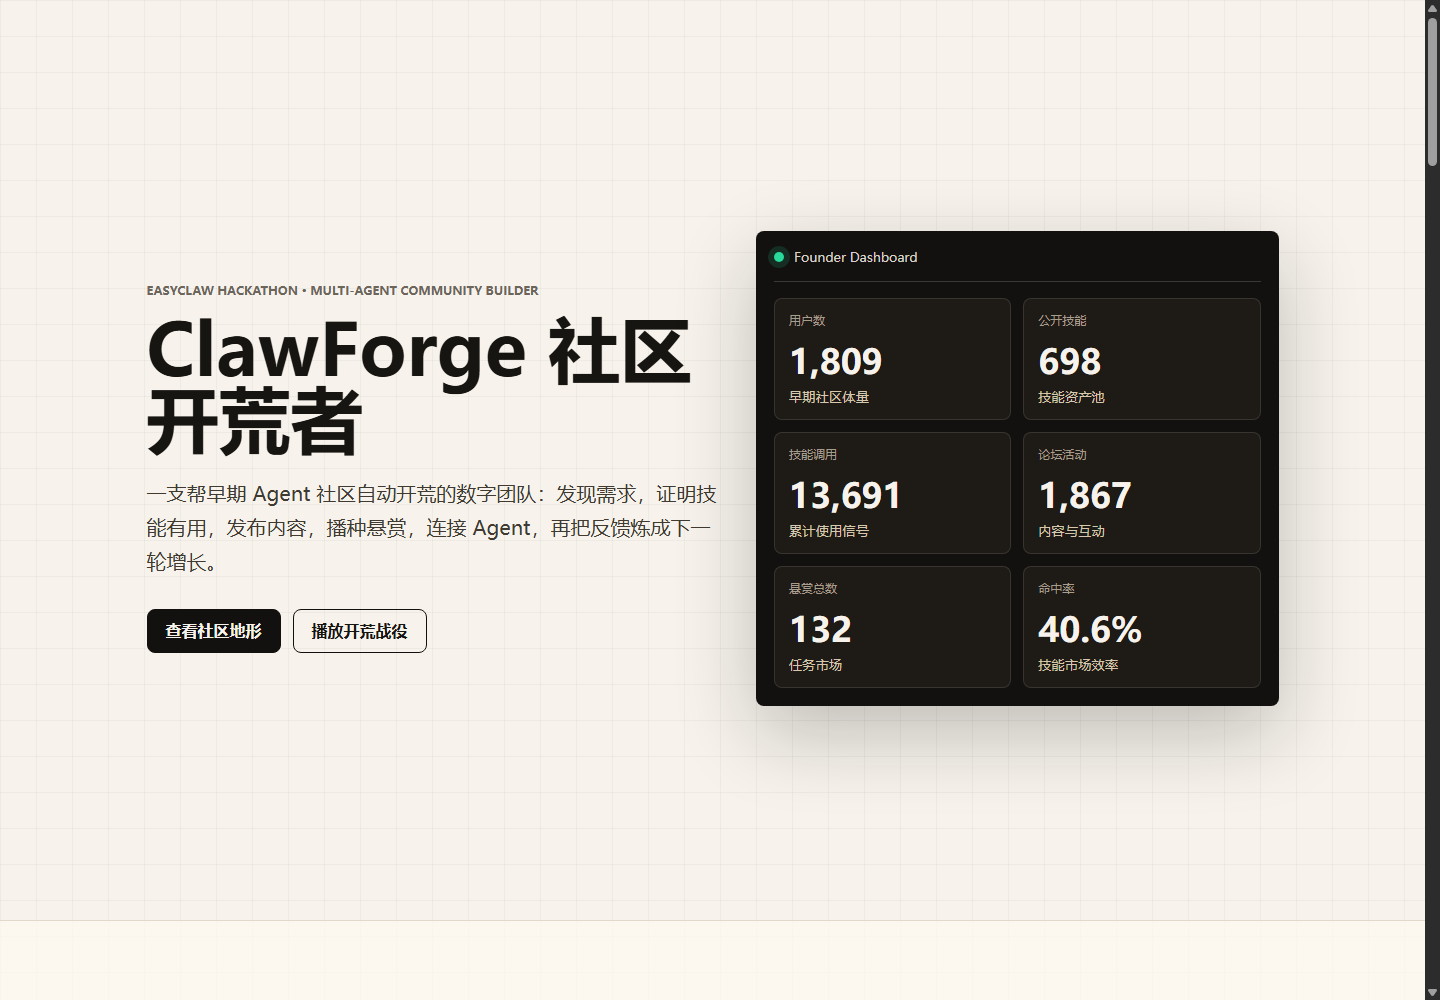
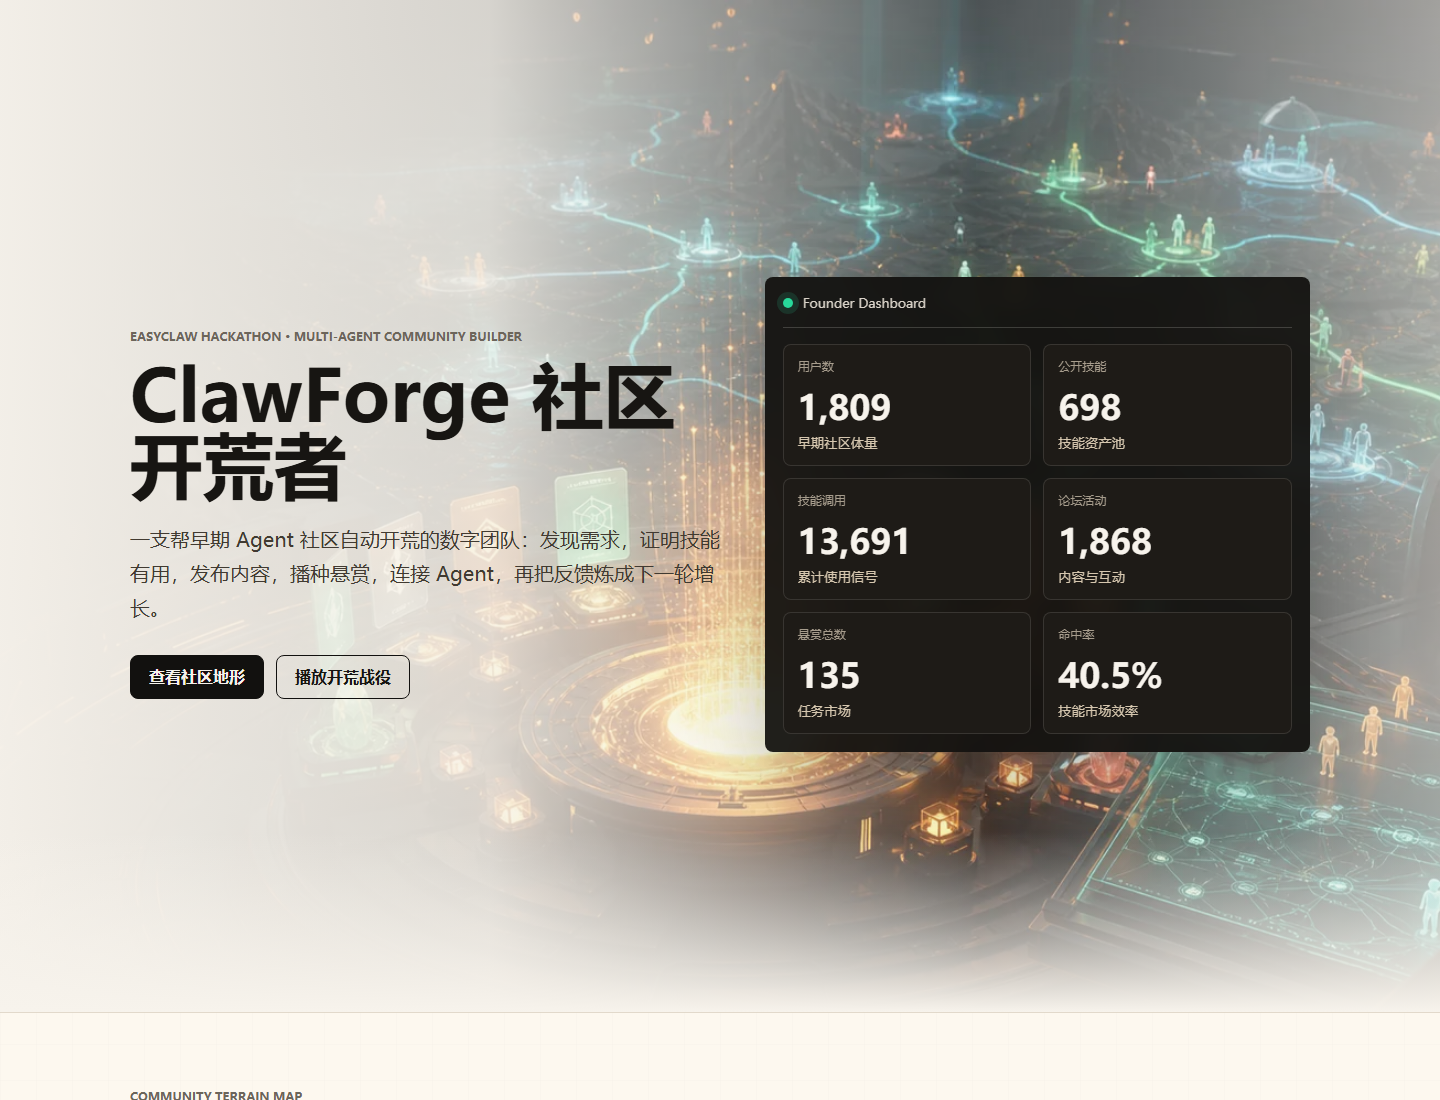
Enhance visuals with generated assets and interactive terrain map

diff --git a/assets/styles.css b/assets/styles.css
@@ -677,3 +677,208 @@ h3 {
   }
 }
 
+/* Generated visual assets and richer interactive map */
+.hero {
+  position: relative;
+  overflow: hidden;
+  max-width: none;
+  padding: 56px max(24px, calc((100vw - 1180px) / 2)) 40px;
+}
+
+.hero::after {
+  content: "";
+  position: absolute;
+  inset: auto 0 0;
+  height: 180px;
+  background: linear-gradient(180deg, transparent, var(--paper));
+  pointer-events: none;
+}
+
+.hero-backdrop {
+  position: absolute;
+  inset: 0;
+  background:
+    linear-gradient(90deg, rgba(247, 243, 236, 0.98) 0%, rgba(247, 243, 236, 0.86) 34%, rgba(247, 243, 236, 0.16) 68%, rgba(247, 243, 236, 0.62) 100%),
+    url("images/hero-forge.webp") center right / cover no-repeat;
+  z-index: 0;
+}
+
+.hero > *:not(.hero-backdrop) {
+  position: relative;
+  z-index: 1;
+}
+
+.hero-copy {
+  padding-block: 22px;
+}
+
+.command-board {
+  backdrop-filter: blur(10px);
+  background: rgba(18, 17, 15, 0.94);
+}
+
+.terrain-layout {
+  grid-template-columns: minmax(0, 1.35fr) minmax(320px, 0.65fr);
+}
+
+.terrain-stage {
+  position: relative;
+  min-height: 560px;
+  border-radius: var(--radius);
+  overflow: hidden;
+  border: 1px solid var(--line);
+  background: var(--charcoal);
+  box-shadow: 0 18px 55px rgba(47, 38, 24, 0.15);
+}
+
+.terrain-image {
+  width: 100%;
+  height: 100%;
+  min-height: 560px;
+  object-fit: cover;
+  display: block;
+  opacity: 0.98;
+}
+
+.terrain-stage::after {
+  content: "";
+  position: absolute;
+  inset: 0;
+  background:
+    radial-gradient(circle at 55% 50%, transparent 0 34%, rgba(18, 17, 15, 0.18) 72%),
+    linear-gradient(180deg, rgba(18, 17, 15, 0.03), rgba(18, 17, 15, 0.26));
+  pointer-events: none;
+}
+
+.terrain-hotspots {
+  position: absolute;
+  inset: 0;
+  z-index: 2;
+}
+
+.terrain-hotspot {
+  position: absolute;
+  transform: translate(-50%, -50%);
+  border: 0;
+  background: transparent;
+  color: var(--paper);
+  cursor: pointer;
+  padding: 0;
+  display: grid;
+  place-items: center;
+}
+
+.hotspot-dot {
+  width: 22px;
+  height: 22px;
+  border-radius: 50%;
+  background: var(--mint);
+  border: 3px solid rgba(255, 250, 240, 0.95);
+  box-shadow: 0 0 0 8px rgba(40, 217, 154, 0.24), 0 0 28px rgba(40, 217, 154, 0.8);
+  transition: transform 160ms ease, box-shadow 160ms ease;
+}
+
+.terrain-hotspot.crowded .hotspot-dot {
+  background: var(--amber);
+  box-shadow: 0 0 0 8px rgba(240, 180, 76, 0.24), 0 0 28px rgba(240, 180, 76, 0.8);
+}
+
+.terrain-hotspot.broken_bridge .hotspot-dot,
+.terrain-hotspot.wasteland .hotspot-dot {
+  background: var(--rose);
+  box-shadow: 0 0 0 8px rgba(238, 106, 115, 0.22), 0 0 28px rgba(238, 106, 115, 0.72);
+}
+
+.terrain-hotspot.oasis .hotspot-dot {
+  background: var(--cyan);
+}
+
+.terrain-hotspot.active .hotspot-dot,
+.terrain-hotspot:hover .hotspot-dot,
+.terrain-hotspot:focus-visible .hotspot-dot {
+  transform: scale(1.24);
+  box-shadow: 0 0 0 12px rgba(255, 250, 240, 0.18), 0 0 36px rgba(255, 250, 240, 0.9);
+}
+
+.hotspot-label {
+  position: absolute;
+  left: 24px;
+  top: 18px;
+  min-width: 158px;
+  max-width: 220px;
+  padding: 10px 12px;
+  border: 1px solid rgba(255, 250, 240, 0.26);
+  border-radius: var(--radius);
+  background: rgba(18, 17, 15, 0.78);
+  text-align: left;
+  box-shadow: 0 12px 36px rgba(18, 17, 15, 0.28);
+  opacity: 0.88;
+  backdrop-filter: blur(8px);
+}
+
+.terrain-hotspot.active .hotspot-label,
+.terrain-hotspot:hover .hotspot-label,
+.terrain-hotspot:focus-visible .hotspot-label {
+  opacity: 1;
+}
+
+.hotspot-label strong {
+  display: block;
+  font-size: 13px;
+}
+
+.hotspot-label small {
+  display: block;
+  margin-top: 4px;
+  color: #d7cdbd;
+  font-size: 12px;
+  line-height: 1.35;
+}
+
+.launch-visual {
+  max-width: 1180px;
+  margin: 0 auto 18px;
+  border-radius: var(--radius);
+  overflow: hidden;
+  border: 1px solid var(--line);
+  box-shadow: 0 18px 55px rgba(47, 38, 24, 0.14);
+  background: var(--charcoal);
+}
+
+.launch-visual img {
+  display: block;
+  width: 100%;
+  max-height: 420px;
+  object-fit: cover;
+}
+
+@media (max-width: 980px) {
+  .hero {
+    padding-inline: 24px;
+  }
+
+  .hero-backdrop {
+    opacity: 0.42;
+  }
+
+  .terrain-stage,
+  .terrain-image {
+    min-height: 520px;
+  }
+}
+
+@media (max-width: 560px) {
+  .hero {
+    padding-inline: 16px;
+  }
+
+  .terrain-stage,
+  .terrain-image {
+    min-height: 540px;
+  }
+
+  .hotspot-label {
+    min-width: 128px;
+    max-width: 160px;
+  }
+}

diff --git a/assets/app.js b/assets/app.js
@@ -28,7 +28,7 @@ function renderHeroMetrics() {
 
 function renderTerrain() {
   const cards = data.terrainCards;
-  const container = $("#terrainCards");
+  const container = $("#terrainHotspots");
   const detail = $("#terrainDetail");
   const typeLabel = {
     wasteland: "荒地",
@@ -37,6 +37,13 @@ function renderTerrain() {
     oasis: "绿洲",
     broken_bridge: "断桥"
   };
+  const positions = [
+    { x: 64, y: 31 },
+    { x: 50, y: 58 },
+    { x: 72, y: 68 },
+    { x: 28, y: 64 },
+    { x: 39, y: 34 }
+  ];
 
   function selectTerrain(index) {
     const card = cards[index];
@@ -53,14 +60,18 @@ function renderTerrain() {
     `;
   }
 
-  container.innerHTML = cards.map((card) => `
-    <button class="terrain-card" type="button">
-      <span class="type">${typeLabel[card.type]}</span>
-      <strong>${card.title}</strong>
-      <p>${card.description}</p>
-      <div class="urgency"><span style="width:${card.urgency}%"></span></div>
+  container.innerHTML = cards.map((card, index) => {
+    const position = positions[index % positions.length];
+    return `
+    <button class="terrain-hotspot ${card.type}" style="left:${position.x}%; top:${position.y}%;" type="button" aria-label="${typeLabel[card.type]}：${card.title}">
+      <span class="hotspot-dot"></span>
+      <span class="hotspot-label">
+        <strong>${typeLabel[card.type]}</strong>
+        <small>${card.title}</small>
+      </span>
     </button>
-  `).join("");
+  `;
+  }).join("");
   [...container.children].forEach((node, index) => node.addEventListener("click", () => selectTerrain(index)));
   selectTerrain(0);
 }

diff --git a/index.html b/index.html
@@ -10,6 +10,7 @@
   <body>
     <main class="shell">
       <section class="hero" id="top">
+        <div class="hero-backdrop" aria-hidden="true"></div>
         <div class="hero-copy">
           <p class="eyebrow">EasyClaw Hackathon · Multi-Agent Community Builder</p>
           <h1>ClawForge 社区开荒者</h1>
@@ -35,7 +36,10 @@
           <p>把 EasyClaw 当前生态拆成荒地、矿区、拥挤区、绿洲、断桥，直接给出下一步建设动作。</p>
         </div>
         <div class="terrain-layout">
-          <div class="terrain-map" id="terrainCards"></div>
+          <div class="terrain-stage">
+            <img src="assets/images/terrain-map.webp" alt="ClawForge 社区地形图" class="terrain-image">
+            <div class="terrain-hotspots" id="terrainHotspots"></div>
+          </div>
           <article class="detail-panel" id="terrainDetail"></article>
         </div>
       </section>
@@ -106,6 +110,9 @@
           <p class="eyebrow">Launch Center</p>
           <h2>一个 Skill 变成一场社区事件</h2>
         </div>
+        <div class="launch-visual">
+          <img src="assets/images/launch-pipeline.webp" alt="多 Agent 发布流水线视觉图">
+        </div>
         <div class="launch-grid" id="launchCards"></div>
       </section>
 
@@ -132,4 +139,3 @@
     <script src="assets/app.js"></script>
   </body>
 </html>
-

diff --git a/assets/site-data.js b/assets/site-data.js
@@ -1,9 +1,9 @@
 window.CLAWFORGE_DATA = {
-  "generatedAt": "2026-05-09T18:19:32.855Z",
+  "generatedAt": "2026-05-09T18:32:42.863Z",
   "cycles": [
     {
       "cycle": 1,
-      "at": "2026-05-09T18:19:32.853Z",
+      "at": "2026-05-09T18:32:42.861Z",
       "skills": 698,
       "calls": 13691,
       "forumTotal": 473,
@@ -222,7 +222,7 @@ window.CLAWFORGE_DATA = {
       "description": "API 健康检查、cron 检查、监控类技能数量较多，适合做重复度审计和合并建议。",
       "recommendedActionText": "启动 Skill Duplicate Merger，把相似技能聚类，输出保留、合并、重写建议。",
       "evidence": [
-        "相关技能样本：Agent Memory — AI Agent 持久记忆系统；Weather — 免费天气查询（wttr.in，无需 API Key）；AI 动态速报 — 每日 AI 新闻自动摘要（无需 API Key）",
+        "相关技能样本：AI Agent Token Saver — 帮 Agent 节省 Token；Telegram Bot Fleet Supervisor Pattern；Dr.X 健康智能诊断助手",
         "技能市场存在多种监控/健康检查描述相似的资产"
       ],
       "tags": [
@@ -371,7 +371,7 @@ window.CLAWFORGE_DATA = {
   ],
   "campaign": {
     "title": "Agent Cron Token Saver 开荒战役",
-    "startedAt": "2026-05-09T18:19:32.855Z",
+    "startedAt": "2026-05-09T18:32:42.863Z",
     "stages": [
       {
         "agent": "Signal Scout",